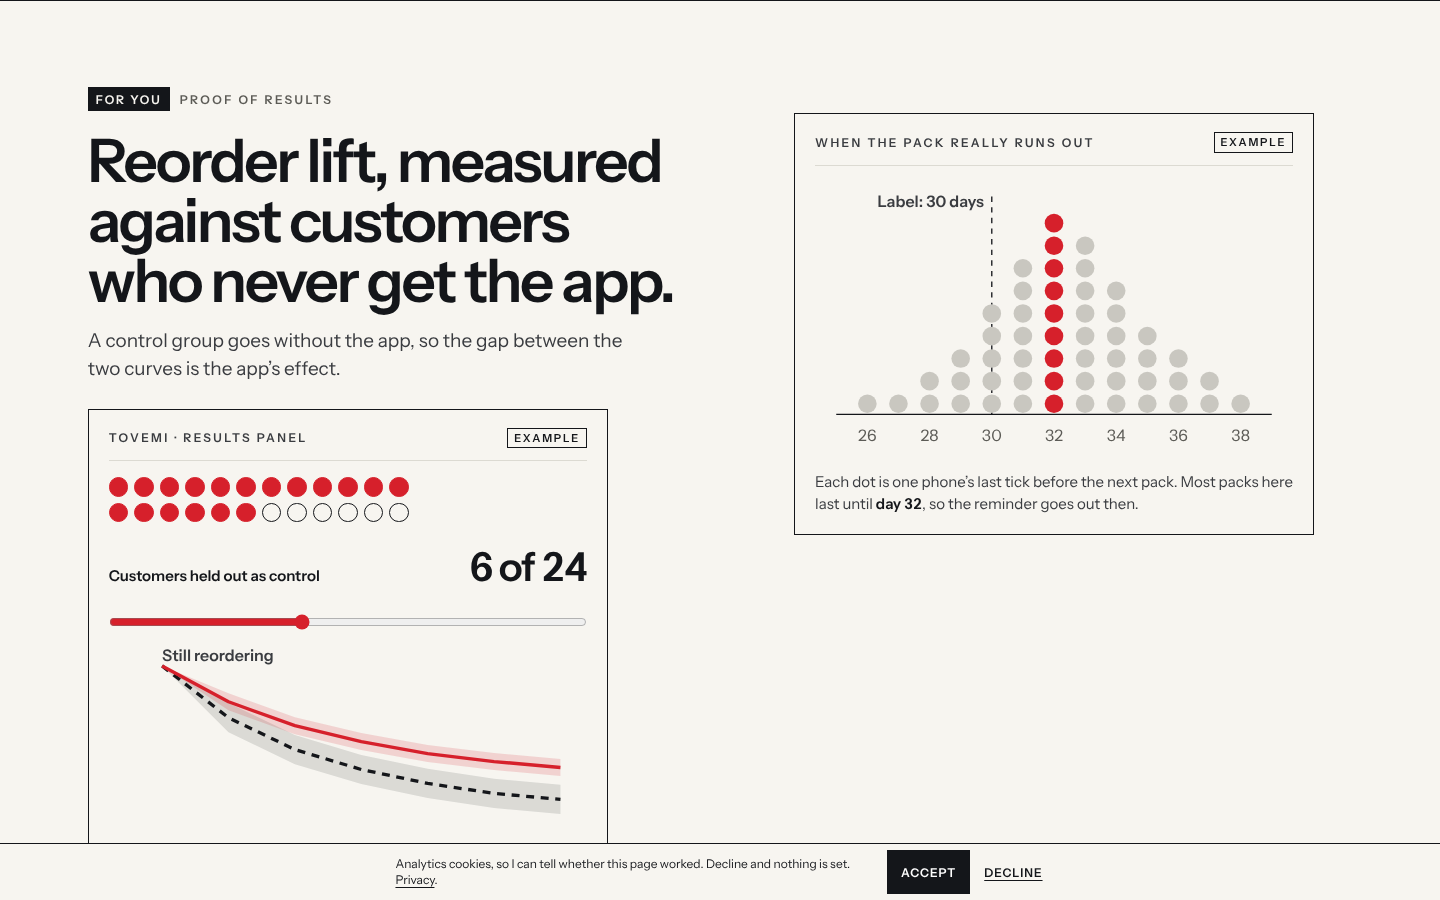
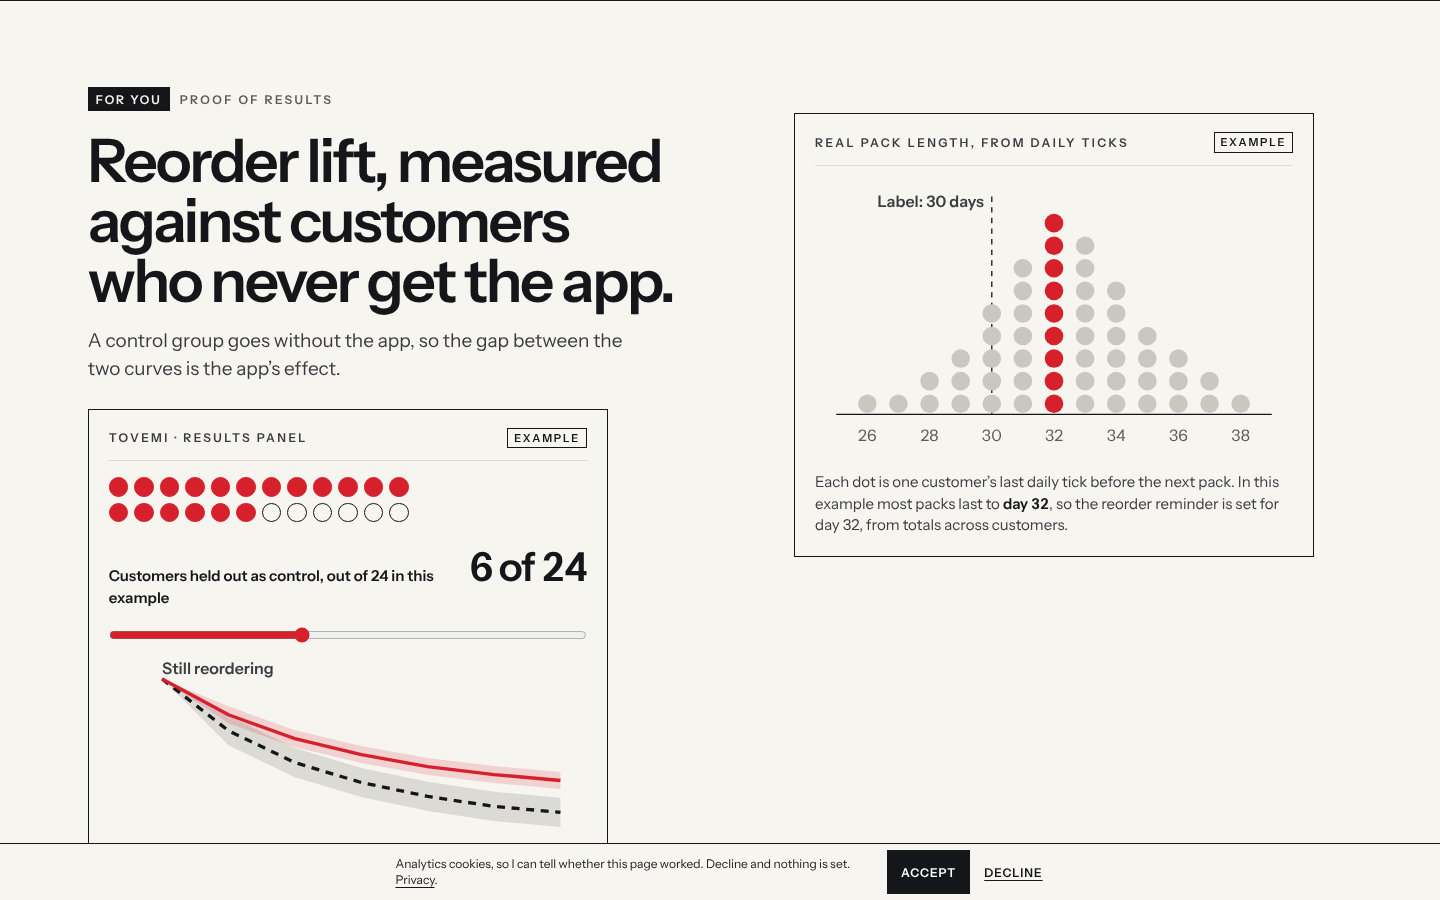
nawyko: R4 g, h, j — teksty po czytelniku (recenzja 22), link z pasa integracji, pomiar CLS kotwic w specu 12

diff --git a/app/nawyko/NawykoClient.tsx b/app/nawyko/NawykoClient.tsx
@@ -1457,7 +1457,7 @@ function Evidence({ brand }: { brand: string }) {
               ))}
             </div>
             <label className="nk-rate" htmlFor="nk-held">
-              <span>Customers held out as control</span>
+              <span>Customers held out as control, out of 24 in this example</span>
               <output htmlFor="nk-held">
                 {held} of {CROWD}
               </output>
@@ -1473,7 +1473,7 @@ function Evidence({ brand }: { brand: string }) {
               aria-valuetext={`${held} of ${CROWD} customers held out without the app`}
               onChange={(e) => setHeld(Number(e.currentTarget.value))}
             />
-            <svg className="nk-plot" viewBox="0 0 360 196" role="img" aria-labelledby="nk-lift-t">
+            <svg className="nk-plot" viewBox="0 0 360 206" role="img" aria-labelledby="nk-lift-t">
               <title id="nk-lift-t">
                 Example chart: customers still reordering over six months, app group above control group.
               </title>
@@ -1484,9 +1484,12 @@ function Evidence({ brand }: { brand: string }) {
               <path d={curve(LIFT_APP)} className="nk-cv nk-cv-a" />
               {LIFT_APP.map((_, i) => (
                 <text key={i} x={LX(i)} y="182" className="nk-tick">
-                  {i === 0 ? 'Start' : `M${i}`}
+                  {i === 0 ? 'Start' : i}
                 </text>
               ))}
+              <text x="190" y="200" className="nk-tick">
+                Month
+              </text>
               <text x="40" y="8" className="nk-tick nk-tick-l">
                 Still reordering
               </text>
@@ -1498,7 +1501,7 @@ function Evidence({ brand }: { brand: string }) {
             <p className="nk-cost" aria-live="polite">
               {apart ? (
                 <>
-                  <b>Ranges apart by month six:</b> the gap is the lift.
+                  <b>By month six the two bands no longer overlap.</b> That gap is what the app adds.
                 </>
               ) : (
                 <>
@@ -1512,12 +1515,12 @@ function Evidence({ brand }: { brand: string }) {
         <div className="nk-phonecol">
           <figure className="nk-desk2 nk-runout">
             <figcaption className="nk-caps nk-deskh">
-              <span>When the pack really runs out</span>
+              <span>Real pack length, from daily ticks</span>
               <b className="nk-ex">Example</b>
             </figcaption>
             <svg className="nk-plot" viewBox="0 0 360 210" role="img" aria-labelledby="nk-run-t">
               <title id="nk-run-t">
-                {`Example chart: each dot is one phone's last tick before the next pack. The label says ${PACK_DAYS} days; most packs last until day ${RUN_PEAK}.`}
+                {`Example chart: each dot is one customer's last daily tick before the next pack. The label says ${PACK_DAYS} days; most packs last to day ${RUN_PEAK}.`}
               </title>
               <line x1="16" y1="178" x2="344" y2="178" className="nk-axis" />
               <line x1={RX(PACK_DAYS)} y1="14" x2={RX(PACK_DAYS)} y2="178" className="nk-label-line" />
@@ -1536,7 +1539,8 @@ function Evidence({ brand }: { brand: string }) {
               ))}
             </svg>
             <p className="nk-cost">
-              Each dot is one phone&rsquo;s last tick before the next pack. Most packs here last until <b>day {RUN_PEAK}</b>, so the reminder goes out then.
+              Each dot is one customer&rsquo;s last daily tick before the next pack. In this example most packs last to <b>day {RUN_PEAK}</b>, so the
+              reorder reminder is set for day {RUN_PEAK}, from totals across customers.
             </p>
           </figure>
         </div>
@@ -1549,9 +1553,12 @@ function Evidence({ brand }: { brand: string }) {
             <span className="nk-labrest">Integrations</span>
           </div>
           <h2 className="nk-h2" id="nk-intg">
-            Works with the shop, subscriptions and email already running.
+            Runs on Shopify; your other tools connect per brand.
           </h2>
-          <p className="nk-one">The app connects to each category below and ships in both app stores under your name.</p>
+          <p className="nk-one">
+            Rewards arrive as Shopify codes; subscription, loyalty and email tools are matched to your stack. The app is listed in both
+            stores under your brand.
+          </p>
         </div>
         <ul className="nk-band5">
           {LINKS.map((l) => (
@@ -1562,7 +1569,12 @@ function Evidence({ brand }: { brand: string }) {
             </li>
           ))}
         </ul>
-        <p className="nk-fine nk-int-fine">Which app in each category connects to your store is mapped in the first call.</p>
+        <p className="nk-fine nk-int-fine">
+          Which app in each category connects to your store is mapped in the first call.{' '}
+          <a className="nk-link" href="#enquiry">
+            Ask which apps connect to your store →
+          </a>
+        </p>
       </section>
     </div>
   )
@@ -1575,7 +1587,7 @@ function RX(day: number) {
 const FAQ = [
   {
     q: 'Will customers really tick every day?',
-    a: 'Not every customer, and not every day. A card takes seconds, a missed day never costs a level, and the brand sees the real rhythm of use either way.',
+    a: 'Not every customer, and not every day. A card takes seconds, a missed day never costs a level, and the brand sees how often customers tick as totals, never one person’s ticks.',
   },
   {
     q: 'What about GDPR and health data?',
@@ -1583,19 +1595,19 @@ const FAQ = [
   },
   {
     q: 'What does a reward cost, and who sets it?',
-    a: 'The brand sets every reward and threshold, so the cost per customer is known before launch. Rewards are fixed and shown in advance, never random.',
+    a: 'The brand sets every reward and threshold, so the most a customer can earn is known before launch. Rewards are fixed and shown in advance, never random.',
   },
   {
     q: 'How long does setup take?',
-    a: 'It depends on your store setup and which tools need to connect. The plan and timing are mapped in the first call.',
+    a: 'Setup time depends on your store and the tools to connect. Both are mapped in the first call.',
   },
   {
     q: 'Does it work for pharmacy purchases?',
-    a: 'Yes. The customer scans the code on the box, which registers the pack; the code alone does not show where it was bought, a receipt does.',
+    a: 'Yes. A scanned pharmacy receipt confirms the purchase; the code on the box registers the pack, not where it was bought.',
   },
   {
     q: 'What if a customer does not give consent?',
-    a: 'Every feature stays visible. The daily card and streak show as locked, with one button to turn them on, and rewards never depend on agreeing to push messages or email.',
+    a: 'Every feature stays visible. The daily card and streak show as locked, with one button to turn them on. No reward depends on push or email consent.',
   },
 ] as const
 
@@ -1609,7 +1621,7 @@ function Faq() {
       <h2 className="nk-h2" id="nk-faq-h">
         Six answers a brand needs before the first call.
       </h2>
-      <p className="nk-one">Rewards, data, pharmacy purchases and setup, each in two sentences.</p>
+      <p className="nk-one">Daily use, health data, reward cost, setup, pharmacy purchases, consent.</p>
       <div className="nk-qs">
         {FAQ.map((f) => (
           <details key={f.q} className="nk-q">

diff --git a/agencja/teksty-do-akceptacji.md b/agencja/teksty-do-akceptacji.md
@@ -149,27 +149,27 @@ w `agencja/rubryka-tekstow.md`. Recenzje czytelnika-kupującego: `agencja/recenz
 | /nawyko i /lab/home, kroki (nagroda) | Unlock a reward they saw coming | Earn a reward they saw coming | zmieniony (rubryka, zasada 4) |
 | /nawyko, oś nagród | Drag the day to watch each reward unlock. | Drag the day to see each reward arrive. | zmieniony (rubryka, zasada 4) |
 
-## R4 przebieg 2 — /nawyko g, h, j (23.11.2026; wszystkie: nowy, czytelnik-kupujący jeszcze nie przeszedł)
+## R4 przebieg 2 — /nawyko g, h, j (23.11.2026; nowy, poprawki po czytelniku — recenzja 22)
 | Trasa | Miejsce | Tekst | Status |
 |---|---|---|---|
 | /nawyko | nagłówek strony (≥1200 px) | Proof · FAQ (dwa nowe linki obok „Your costs”) | nowy |
 | /nawyko | R4 scena (g) etykieta | For you · Proof of results | nowy |
 | /nawyko | R4 scena (g) H2 | Reorder lift, measured against customers who never get the app. | nowy |
 | /nawyko | R4 scena (g) zdanie | A control group goes without the app, so the gap between the two curves is the app's effect. | nowy |
-| /nawyko | R4 scena (g) panel wyników | {marka} · results panel · Example · Customers held out as control · {n} of 24 (suwak 2–12) · Still reordering · Start, M1–M6 · With the app / Control group | nowy |
-| /nawyko | R4 scena (g) wynik suwaka | Ranges apart by month six: the gap is the lift. / Ranges overlap: too few customers held out to tell. | nowy |
+| /nawyko | R4 scena (g) panel wyników | {marka} · results panel · Example · Customers held out as control, out of 24 in this example · {n} of 24 (suwak 2–12) · Still reordering · Start, 1–6, Month · With the app / Control group | zmieniony (recenzja 22) |
+| /nawyko | R4 scena (g) wynik suwaka | By month six the two bands no longer overlap. That gap is what the app adds. / Ranges overlap: too few customers held out to tell. | zmieniony (recenzja 22) |
 | /nawyko | R4 scena (g) podpis | A bigger control group gives a clearer answer; fewer customers get the app meanwhile. You choose the split. | nowy |
-| /nawyko | R4 scena (g) drugi rysunek | When the pack really runs out · Example · Label: 30 days · Each dot is one phone's last tick before the next pack. Most packs here last until day 32, so the reminder goes out then. | nowy |
+| /nawyko | R4 scena (g) drugi rysunek | Real pack length, from daily ticks · Example · Label: 30 days · Each dot is one customer's last daily tick before the next pack. In this example most packs last to day 32, so the reorder reminder is set for day 32, from totals across customers. | zmieniony (recenzja 22) |
 | /nawyko | R4 scena (h) etykieta | For you · Integrations | nowy |
-| /nawyko | R4 scena (h) H2 | Works with the shop, subscriptions and email already running. | nowy |
-| /nawyko | R4 scena (h) zdanie | The app connects to each category below and ships in both app stores under your name. | nowy |
+| /nawyko | R4 scena (h) H2 | Runs on Shopify; your other tools connect per brand. | zmieniony (recenzja 22) |
+| /nawyko | R4 scena (h) zdanie | Rewards arrive as Shopify codes; subscription, loyalty and email tools are matched to your stack. The app is listed in both stores under your brand. | zmieniony (recenzja 22) |
 | /nawyko | R4 scena (h) pas | Store · Shopify · Orders confirm a purchase; rewards arrive as single-use codes. / Subscriptions · Subscription apps · Cashback can come off the next delivery. / Loyalty · Loyalty apps · Points can sit beside a programme already running. / Email and CRM · Your email tool · Reorder reminders go out without any health data. / App stores · App Store · Google Play · The app is listed under your brand name. | nowy |
-| /nawyko | R4 scena (h) podpis | Which app in each category connects to your store is mapped in the first call. | nowy |
+| /nawyko | R4 scena (h) podpis | Which app in each category connects to your store is mapped in the first call. · link: Ask which apps connect to your store → (#enquiry) | zmieniony (link nowy) |
 | /nawyko | R4 FAQ (j) etykieta / H2 | For you · Questions / Six answers a brand needs before the first call. | nowy |
-| /nawyko | R4 FAQ (j) zdanie | Rewards, data, pharmacy purchases and setup, each in two sentences. | nowy |
-| /nawyko | FAQ 1 | Will customers really tick every day? — Not every customer, and not every day. A card takes seconds, a missed day never costs a level, and the brand sees the real rhythm of use either way. | nowy |
+| /nawyko | R4 FAQ (j) zdanie | Daily use, health data, reward cost, setup, pharmacy purchases, consent. | zmieniony (recenzja 22) |
+| /nawyko | FAQ 1 | Will customers really tick every day? — Not every customer, and not every day. A card takes seconds, a missed day never costs a level, and the brand sees how often customers tick as totals, never one person's ticks. | zmieniony (recenzja 22) |
 | /nawyko | FAQ 2 | What about GDPR and health data? — A tick is stored only as a ticked date, and only with the customer's consent. Nothing about symptoms or goals is collected, and ticks never reach ads, analytics, push messages or email. | nowy |
-| /nawyko | FAQ 3 | What does a reward cost, and who sets it? — The brand sets every reward and threshold, so the cost per customer is known before launch. Rewards are fixed and shown in advance, never random. | nowy |
-| /nawyko | FAQ 4 | How long does setup take? — It depends on your store setup and which tools need to connect. The plan and timing are mapped in the first call. | nowy (bez terminu i ceny — decyzja Rafała) |
-| /nawyko | FAQ 5 | Does it work for pharmacy purchases? — Yes. The customer scans the code on the box, which registers the pack; the code alone does not show where it was bought, a receipt does. | nowy |
-| /nawyko | FAQ 6 | What if a customer does not give consent? — Every feature stays visible. The daily card and streak show as locked, with one button to turn them on, and rewards never depend on agreeing to push messages or email. | nowy (do potwierdzenia: czy nagrody za zakup działają też bez zgody na dane o zdrowiu) |
+| /nawyko | FAQ 3 | What does a reward cost, and who sets it? — The brand sets every reward and threshold, so the most a customer can earn is known before launch. Rewards are fixed and shown in advance, never random. | zmieniony (recenzja 22) |
+| /nawyko | FAQ 4 | How long does setup take? — Setup time depends on your store and the tools to connect. Both are mapped in the first call. | zmieniony (recenzja 22; bez terminu i ceny — decyzja Rafała) |
+| /nawyko | FAQ 5 | Does it work for pharmacy purchases? — Yes. A scanned pharmacy receipt confirms the purchase; the code on the box registers the pack, not where it was bought. | zmieniony (recenzja 22) |
+| /nawyko | FAQ 6 | What if a customer does not give consent? — Every feature stays visible. The daily card and streak show as locked, with one button to turn them on. No reward depends on push or email consent. | zmieniony (do potwierdzenia przez Rafała: czy nagrody za zakup działają bez zgody na dane o zdrowiu — dziś strona tego nie twierdzi) |

diff --git a/agencja/specs/12-nawyko-sceny-g-h-j.md b/agencja/specs/12-nawyko-sceny-g-h-j.md
@@ -25,3 +25,14 @@ Kolejność: … `#privacy` → `#proof` → `#integrations` → „What it neve
 6. Zrzuty `agencja/podglad/nawyko-r4-{proof,integrations,faq}-{390,1440}.png` (+ `-night`, `proof-*-held2` po przesunięciu suwaka,
    `proof-390-runout`).
 7. Teksty w `agencja/teksty-do-akceptacji.md` (sekcja „R4 przebieg 2”, status „nowy”).
+
+## Pomiar CLS przy wejściu na kotwice (23.11, poprawki po recenzji 21)
+- Kliknięcie linku w nawigacji (1440: Proof, FAQ): **CLS 0,000**.
+- Wejście adresem z kotwicą (`/nawyko#proof|#integrations|#faq`), przed i po tym przebiegu bez zmian: 390 → 1,08 / 0,79 / 1,04;
+  1440 → 0,33 / 1,09 / 0,37. Te same skoki są na kotwicach sprzed tego przebiegu: `#privacy` 0,46 (390) i 0,28 (1440), `#cashback` 1,0 (390).
+- **Przyczyna (sprzed przebiegu):** `Scene` renderuje na serwerze układ statyczny (`mode='still'`, akty jako sekcje `nk-still`)
+  i po hydratacji przełącza się na scenę przypiętą (`setMode('scroll')`), co zmienia wysokość wszystkiego nad kotwicą; przeglądarka
+  przewinęła już do kotwicy, więc sekcja ucieka z kadru. Źródła z PerformanceObserver: `#more`, `#evidence`, `#privacy`, `.nk-never`.
+- **Nie ruszone:** poprawka wymaga stałej rezerwy wysokości sceny przypiętej w HTML z serwera albo zmiany momentu przełączenia trybu —
+  dotyka sceny głównej i wszystkich jej trybów (bez JS, reduced-motion, niskie okno). Osobne zadanie z własną bramką.
+- Kontrast przypisu `#integrations` (`--dim` na `--tint`, zmierzone obliczone kolory): Paper 5,66:1, Night 6,71:1; link 15,06 / 14,63.
